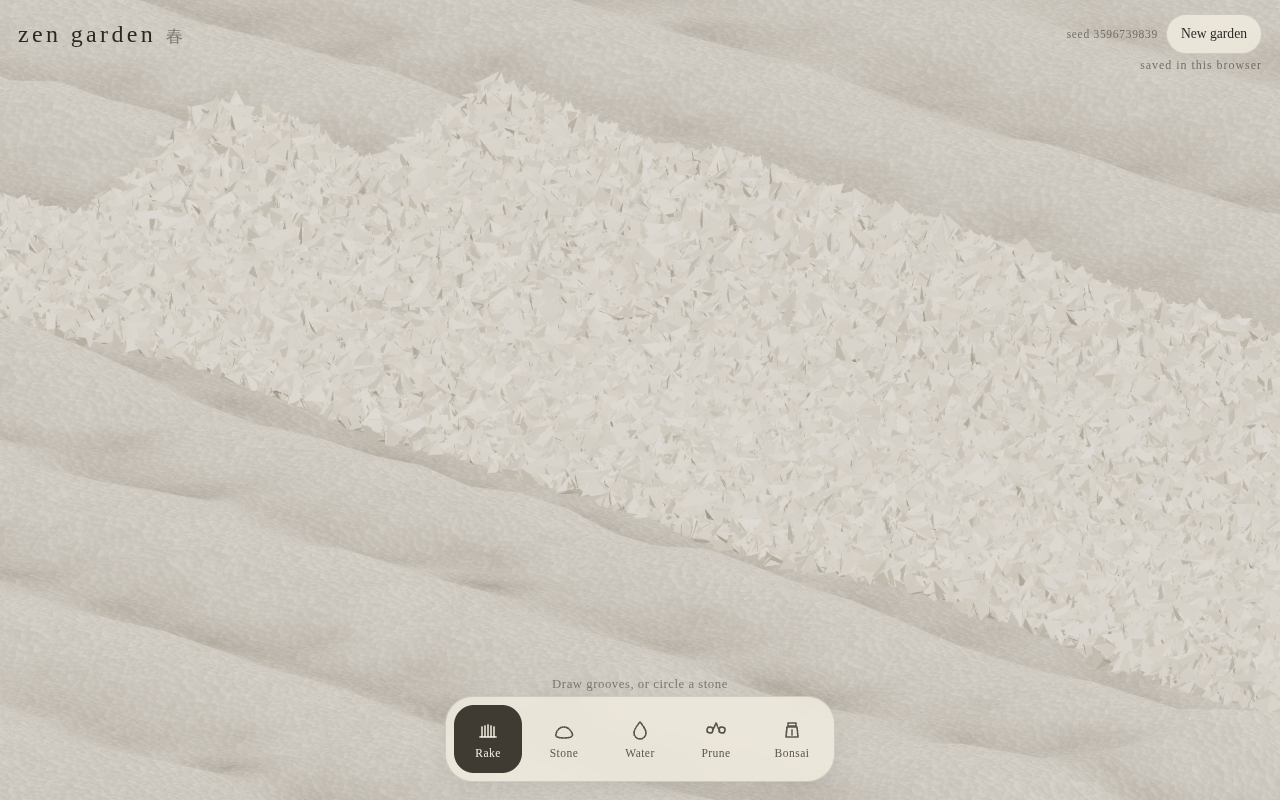
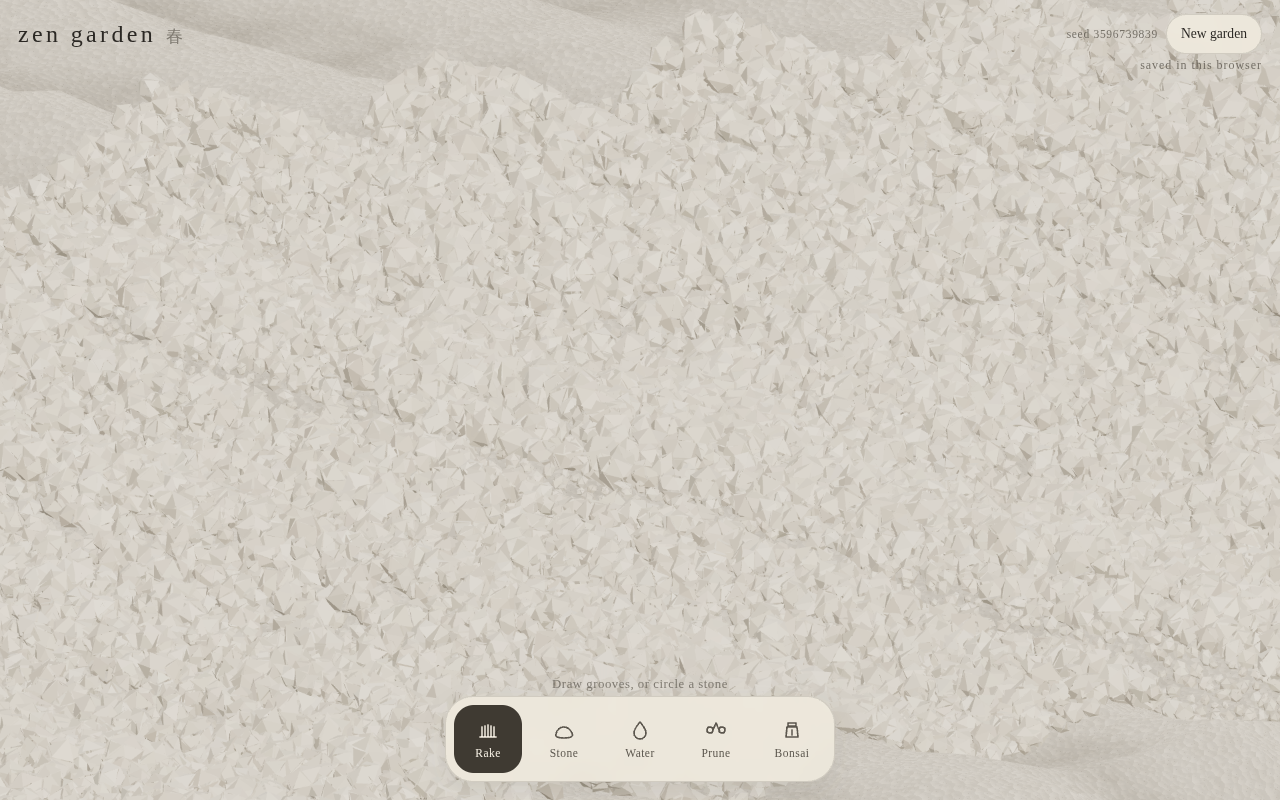
Let grain piles carry the ridge, not the height mesh
A displaced bed with shards on top still reads as a pebble-skinned rail.
Keep 20% bed relief for crevices; sit grains at full mass height with
stacking and jitter so banks are loose grit and the silhouette is shards.

diff --git a/src/grains.ts b/src/grains.ts
@@ -144,7 +144,7 @@ export class GrainBed {
     const halfH = THREE.MathUtils.clamp(zoom * 0.7 * stretch, 0.85, 2.9);
     const halfW = THREE.MathUtils.clamp(zoom * 0.62 * Math.max(1.15, aspect), 0.7, 2.5);
     const area = halfW * 2 * halfH * 2;
-    const spacing = THREE.MathUtils.clamp(Math.sqrt(area / (this.maxNear * 0.78)), this.nearMinSpacing, 0.018);
+    const spacing = THREE.MathUtils.clamp(Math.sqrt(area / (this.maxNear * 0.84)), this.nearMinSpacing, 0.026);
     const cols = Math.max(8, Math.ceil((halfW * 2) / spacing));
     const rows = Math.max(8, Math.ceil((halfH * 2) / (spacing * 0.86)));
     let n = 0;
@@ -154,8 +154,8 @@ export class GrainBed {
       for (let i = 0; i < cols && n < max; i++) {
         const jx = hash01(i * 19 + 3, j * 29 + 11) - 0.5;
         const jz = hash01(i * 41 + 7, j * 17 + 5) - 0.5;
-        const x = tx + (i + hex - cols * 0.5 + jx * 0.72) * spacing;
-        const z = tz + (j - rows * 0.5 + jz * 0.72) * spacing * 0.86;
+        const x = tx + (i + hex - cols * 0.5 + jx * 0.94) * spacing;
+        const z = tz + (j - rows * 0.5 + jz * 0.94) * spacing * 0.86;
         if (Math.abs(x) > GARDEN.width * 0.5 - 0.04 || Math.abs(z) > GARDEN.depth * 0.5 - 0.04) continue;
         writePose(this.nearX, this.nearZ, this.nearRx, this.nearRy, this.nearRz, this.nearSx, this.nearSy, this.nearSz, n, x, z, i, j, 0.72);
         this.nearLayer[n] = 0;
@@ -245,7 +245,8 @@ export class GrainBed {
       }
       const pile = Math.max(0, posed.h);
       const furrow = posed.h < -0.01 ? 0.48 : 1;
-      const lift = sy[i] * 0.48 * furrow + (stack === 1 ? 0.007 + pile * 0.35 : 0) + pile * 0.32;
+      const yJit = (hash01(i, 77) - 0.32) * 0.012;
+      const lift = sy[i] * 0.62 * furrow + (stack === 1 ? 0.01 + pile * 0.55 : 0) + pile * 0.85 + yJit;
       dummy.position.set(posed.x, GARDEN.sandY + posed.h + lift, posed.z);
       dummy.rotation.set(rx[i] + posed.tiltX, ry[i], rz[i] + posed.tiltZ);
       dummy.scale.set(sx[i] * (1 + pile * 1.6) * furrow, sy[i] * (1 + pile * 2.4) * furrow, sz[i] * (1 + pile * 1.6) * furrow);
@@ -341,8 +342,8 @@ function layoutBed(spacing: number, maxBed: number): {
     for (let i = 0; i < cols && n < count; i++) {
       const jx = hash01(i * 7 + 2, j * 11 + 4) - 0.5;
       const jz = hash01(i * 13 + 5, j * 3 + 8) - 0.5;
-      const gx = x0 + (i + hex + jx * 0.7) * spacing;
-      const gz = z0 + (j + jz * 0.7) * spacing * 0.86;
+      const gx = x0 + (i + hex + jx * 0.92) * spacing;
+      const gz = z0 + (j + jz * 0.92) * spacing * 0.86;
       if (Math.abs(gx) > GARDEN.width * 0.5 - 0.03 || Math.abs(gz) > GARDEN.depth * 0.5 - 0.03) continue;
       writePose(x, z, rx, ry, rz, sx, sy, sz, n, gx, gz, i, j, 1);
       n += 1;
@@ -372,10 +373,10 @@ function writePose(
   rx[i] = hash01(col, row + 21) * Math.PI;
   ry[i] = hash01(col + 9, row) * Math.PI * 2;
   rz[i] = hash01(col + 3, row + 7) * Math.PI;
-  const s = (0.0062 + hash01(col + 15, row + 4) * 0.0088) * size;
-  sx[i] = s * (0.78 + hash01(col, row + 33) * 0.55);
-  sy[i] = s * (0.62 + hash01(col + 18, row) * 0.5);
-  sz[i] = s * (0.74 + hash01(col + 4, row + 12) * 0.52);
+  const s = (0.0054 + hash01(col + 15, row + 4) * 0.0115) * size;
+  sx[i] = s * (0.55 + hash01(col, row + 33) * 1.05);
+  sy[i] = s * (0.42 + hash01(col + 18, row) * 0.95);
+  sz[i] = s * (0.52 + hash01(col + 4, row + 12) * 1.0);
 }
 
 function makeInstanced(geo: THREE.BufferGeometry, mat: THREE.Material, count: number): THREE.InstancedMesh {

diff --git a/src/sand.ts b/src/sand.ts
@@ -103,8 +103,8 @@ export class SandField {
       roughness: 0.96,
       metalness: 0,
       displacementMap: this.texture,
-      displacementScale: H_RANGE,
-      displacementBias: H_MIN,
+      displacementScale: H_RANGE * 0.2,
+      displacementBias: H_MIN * 0.2,
       envMapIntensity: 0,
       emissive: 0x2a261e,
       emissiveIntensity: 0.08,
@@ -112,7 +112,7 @@ export class SandField {
     applySandBedShader(mat, this.texture, GARDEN.width, GARDEN.depth, H_RANGE);
 
     this.mesh = new THREE.Mesh(geo, mat);
-    this.mesh.position.y = GARDEN.sandY - 0.006;
+    this.mesh.position.y = GARDEN.sandY - 0.012;
     this.mesh.receiveShadow = true;
     this.mesh.castShadow = false;
     this.mesh.userData.kind = "sand";

diff --git a/src/gravelShader.ts b/src/gravelShader.ts
@@ -103,9 +103,9 @@ export function applySandBedShader(
          vec3 deep = vec3(0.62, 0.58, 0.53);
          vec3 col = mix(mid, pale, g0.x);
          col = mix(col, mix(deep, mid, g1.x), 0.22);
-         col *= mix(0.72, 1.0, g0.y);
-         col *= mix(1.0, 0.58, trough);
-         col *= mix(1.0, 1.08, crest);
+         col *= mix(0.68, 1.0, g0.y);
+         col *= mix(1.0, 0.48, trough);
+         col *= mix(1.0, 1.1, crest);
          diffuseColor.rgb = col;
         `,
       )
@@ -127,5 +127,5 @@ export function applySandBedShader(
         `,
       );
   };
-  mat.customProgramCacheKey = () => "sand-bed-grit-v2";
+  mat.customProgramCacheKey = () => "sand-bed-grit-v3";
 }

diff --git a/tests/screenshots.spec.ts b/tests/screenshots.spec.ts
@@ -9,7 +9,7 @@ test.describe("screenshots", () => {
   test.skip(!process.env.SHOTS, "set SHOTS=1 to capture PR images");
 
   test("nose-on gravel, island rings, and mobile close", async ({ page }) => {
-    test.setTimeout(240_000);
+    test.setTimeout(300_000);
     mkdirSync(outDir, { recursive: true });
     await page.setViewportSize({ width: 1280, height: 800 });
     await page.goto("/?hq=1");
